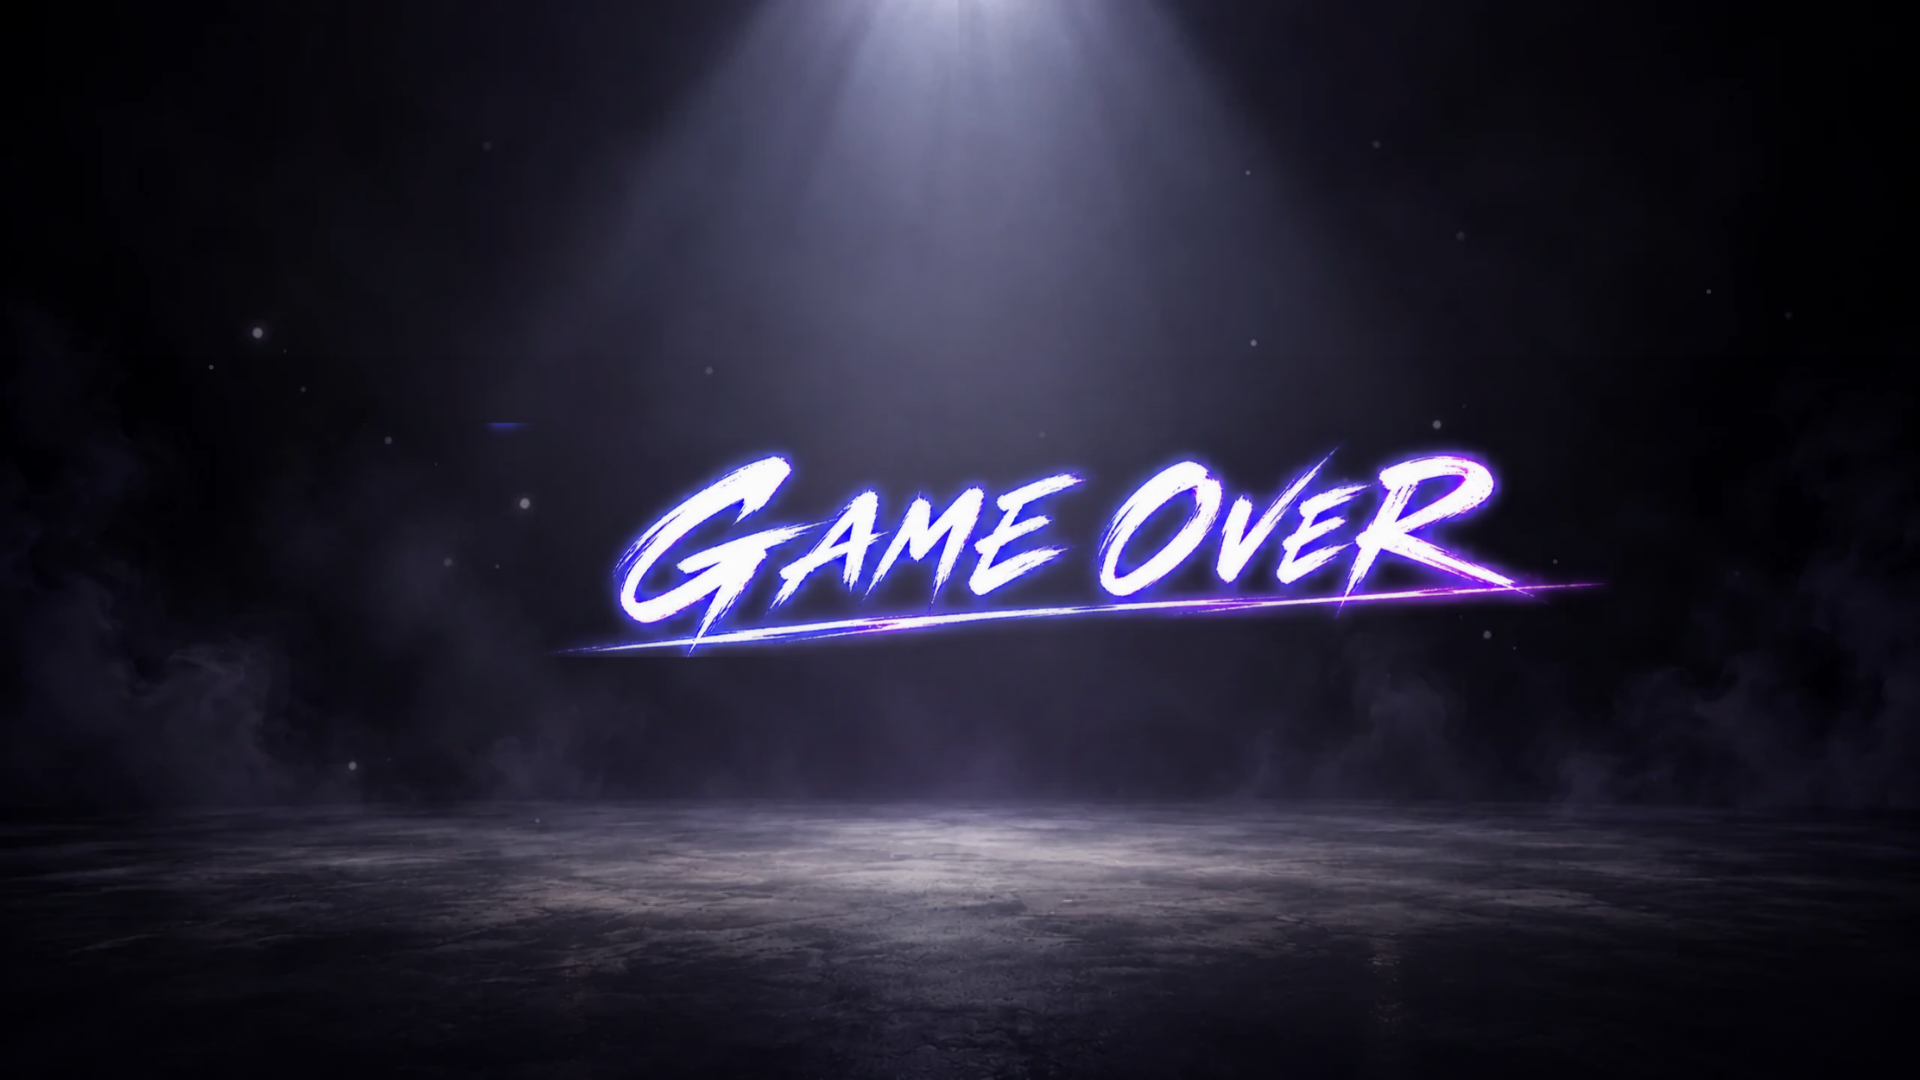
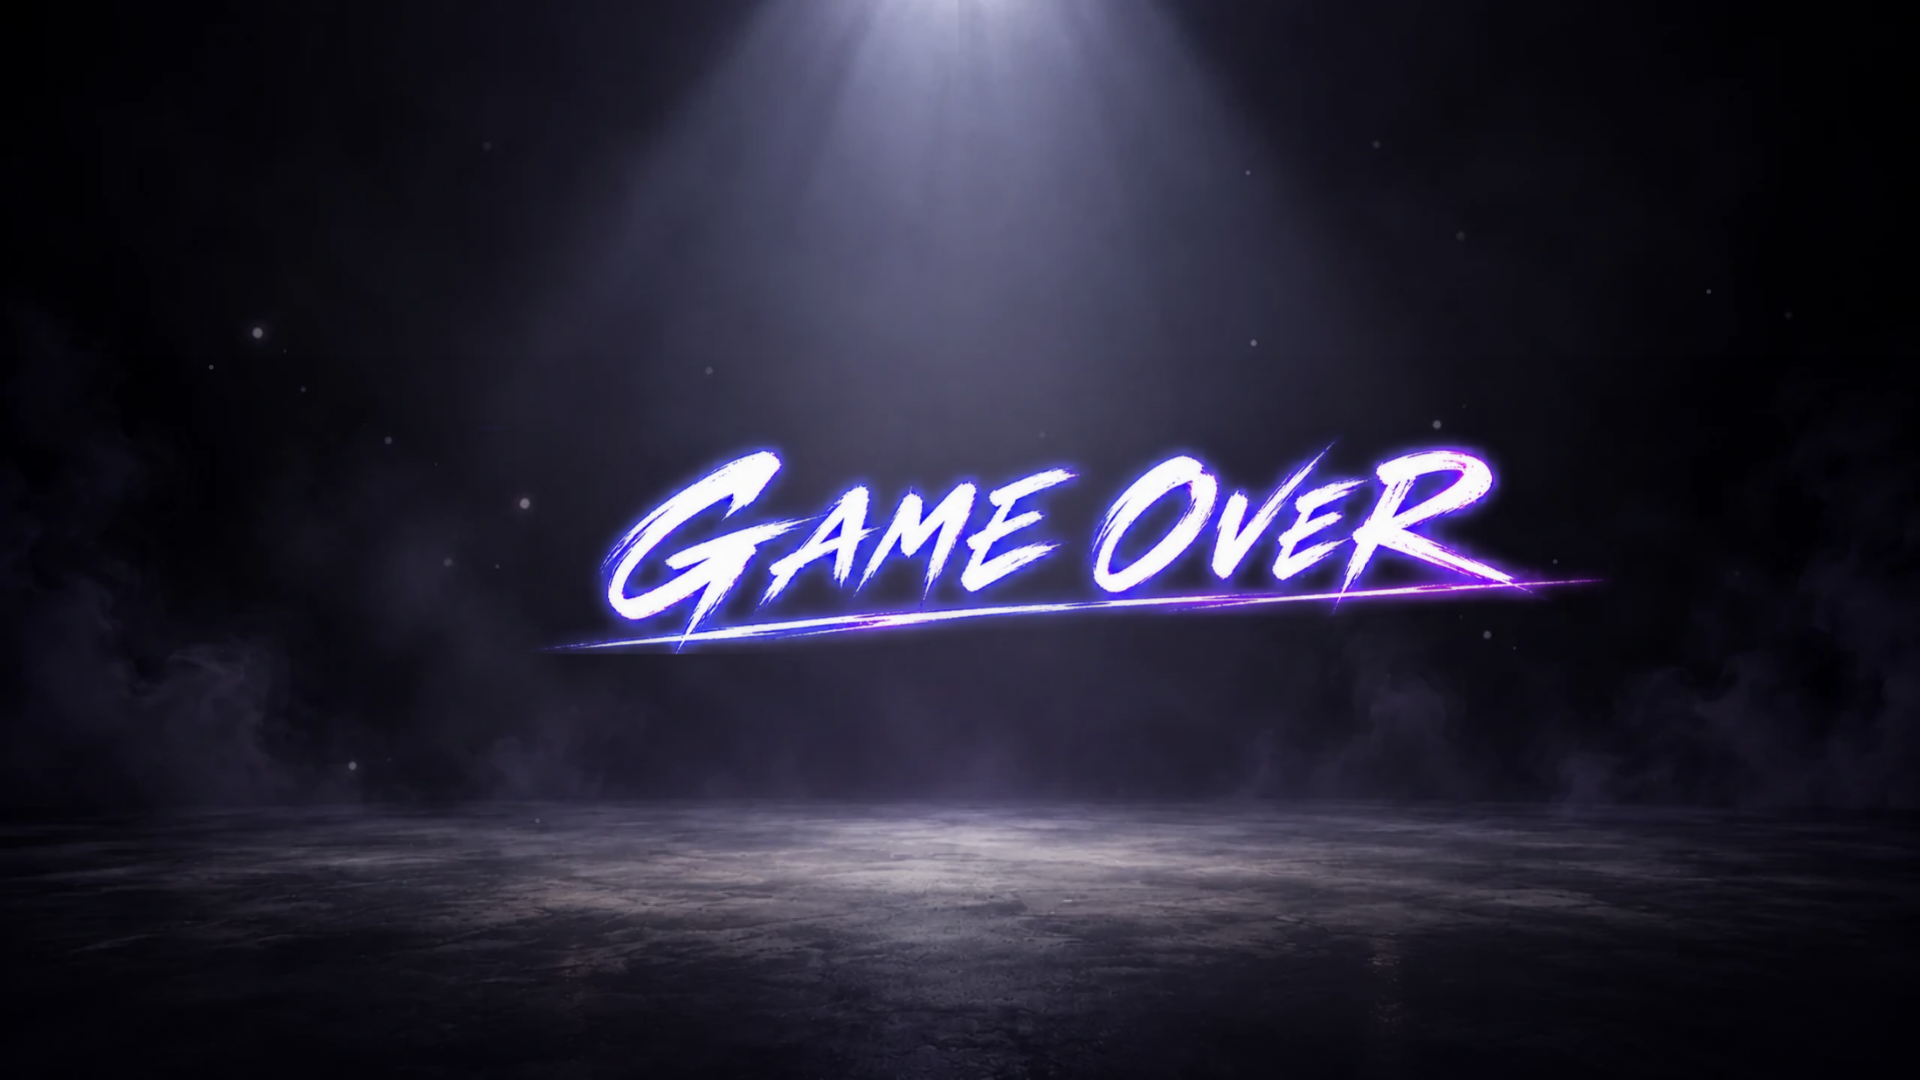
docs: record completed reference UI and verified tournament recovery

Changed region(s): [[0.2812, 0.3972, 0.8438, 0.6111]]

diff --git a/docs/owner_requests.md b/docs/owner_requests.md
@@ -4,18 +4,20 @@
 
 | ID | 状態 | オーナー要望 |
 |---|---|---|
-| CV35 | 🔧 | 人物背後の巨大な数字が迫る演出を本編に採用する。 |
+| CV35 | ✅ 8f0f291・441245a | 人物背後の巨大な数字が迫る演出を本編に採用する。 |
 | CV36 | ↪ CV41で更新 | 「コンティニュー横の数字はなくしていい」は最新の「これなら入れたい」に更新。数字を参考画像の右上円形HUDへ戻す。 |
-| CV37 | 🔧 | 見出し・人物・セリフ・下段2択を画面全体で整える。 |
-| CV38 | 🔧 | 安っぽく見える見出しを改め、筆文字風の「コンティニューする？」と白〜青紫の発光・斜めの装飾ラインを再現する。 |
+| CV37 | ✅ 8f0f291・441245a | 見出し・人物・セリフ・下段2択を画面全体で整える。 |
+| CV38 | ✅ 8f0f291・441245a | 安っぽく見える見出しを改め、筆文字風の「コンティニューする？」と白〜青紫の発光・斜めの装飾ラインを再現する。 |
 | CV39 | ↪ CV40で位置決定 | 見出しの別位置を見たいという依頼は、最新の参考画像を完成形とする指示によって参考位置に決定。 |
-| CV40 | 🔧 | 添付参考を可能な限り忠実に再現して全面刷新。暗いスモークステージ・スポット光・中央人物・装飾ライン・金／紫の鋭角ボタンを制作する。 |
-| CV41 | 🔧 | 見出し横の円形HUDと薄い巨大数字を動的にカウント。数字を画像へ焼き込まない。 |
-| CV42 | 🔧 | 大会に戻る／諦める・人物表情・台詞・20秒期限など既存の処理を保持。ボタン文字を動的に表示する。 |
-| CV43 | 🔧 | 光を伴うタイトル登場・ゆっくり動く煙・揺らぐ光・秒数に連動するHUD・残り5秒の緊迫感・選択時のネオン・自然なフェードを実装する。 |
-| CV44 | 🔧 | 1920×1080を基準に異なる16:9・スマホへ対応。顔を隠さず可読性と軽量さを保ち、CONTINUE以外へ影響させない。 |
-| CV45 | 🔧 | 実際の画面を起動して参考と比較し、スクリーンショットを見ながら修正。素材・検証・完成画面を保存して報告する。 |
-| CV46 | 🔧 | 同じ雰囲気を受け継ぐシンプルなGAME OVERを作り、タイトルへ自動で戻す。0・HUD・2択は表示しない。 |
+| CV40 | ✅ 8f0f291・441245a | 添付参考を可能な限り忠実に再現して全面刷新。暗いスモークステージ・スポット光・中央人物・装飾ライン・金／紫の鋭角ボタンを制作する。 |
+| CV41 | ✅ 8f0f291・441245a | 見出し横の円形HUDと薄い巨大数字を動的にカウント。数字を画像へ焼き込まない。 |
+| CV42 | ✅ 8f0f291・441245a | 大会に戻る／諦める・人物表情・台詞・20秒期限など既存の処理を保持。ボタン文字を動的に表示する。 |
+| CV43 | ✅ 8f0f291・441245a | 光を伴うタイトル登場・ゆっくり動く煙・揺らぐ光・秒数に連動するHUD・残り5秒の緊迫感・選択時のネオン・自然なフェードを実装する。 |
+| CV44 | ✅ 8f0f291・441245a | 1920×1080を基準に異なる16:9・スマホへ対応。顔を隠さず可読性と軽量さを保ち、CONTINUE以外へ影響させない。 |
+| CV45 | ✅ 8f0f291・441245a | 実際の画面を起動して参考と比較し、スクリーンショットを見ながら修正。素材・検証・完成画面を保存して報告する。 |
+| CV46 | ✅ 8f0f291・441245a | 同じ雰囲気を受け継ぐシンプルなGAME OVERを作り、タイトルへ自動で戻す。0・HUD・2択は表示しない。 |
+
+実装 `8f0f291`・`441245a`、[PR #284](https://github.com/haseatsu114514-dot/shisha-game/pull/284)。[生成原画・指示・完成スクリーンショット・改善記録](../asset_sources/ui/continue-v4-20261010/README.md)、[検証記録](../asset_sources/ui/continue-v4-20261010/neon-reference-20261011/test-results.json)。`continue_neon`・`continue_screen`・`continue_classic_count`・`continue_audio`・`continue_premium`・`burnt_gameover` PASS。全18分岐、全9台本のPC／スマホ、1080p、20秒の独立期限、直前の再挑戦、タブ停止・動き軽減・キーボード・セーブ保持、実大会の焦げ→再挑戦と時間切れ→タイトルを確認。素材欠け・ページエラー0。台詞lint ERROR 0／既存WARN 345、整形dry-run 0行、構文と差分空白も正常。画像目録の既存項目を全て保持。PRのブラウザ回帰CIも成功（run `38103910448`）。最新mainの統合で競合した要望台帳はCONTINUEと別担当の検証履歴を両方保持した。
 
 ## 2026-10-10 上に2択を置く実験版・GAME OVERの数字非表示
 
@@ -26,9 +28,9 @@
 | CV29 | ✅ 26faca8・d145c05 | 「ゲームオーバーが出た時は0とかは消して欲しい」。GAME OVER中はカウントと選択肢を非表示にし、ロゴだけを中央へ置く。全配置に適用する。 |
 | CV30 | ✅ d145c05 | 「このゲームの世界観にあったゲームオーバーの表示を生成して」。煙・濃紫・暖色の質感を使った透過ロゴを新規生成し、原画・生成指示・組み込みを保存する。 |
 | CV31 | ✅ d145c05（比較用） | 「比較の新バージョンはキャラの後ろに大きな薄らした数字がカウント」「どんどん拡大」。上部ボタン版から独立した背面カウント比較版を追加する。人物とセリフより薄く、残り20秒に沿って拡大。GAME OVERでは消す。 |
-| CV32 | ✅ d145c05（試用） | 「背景こんなの使ってみて欲しい」「違和感あれば戻す」。添付の暗いステージ2枚を参照し、スポット光・床・霞の試用背景を制作。プレビューで採用中の紫背景と切り替える。本編の背景採用は未決。 |
-| CV33 | 🔧 | 「王道パターンはこの構図」「比較も見たい」「微妙なら王道パターンに合わせて作って」。添付の中央見出し＋人物＋セリフ＋下段2択を王道として維持し、暗いステージでも上段の実験版と見比べられるようにする。 |
-| CV34 | 🔧 | 「王道パターンで後ろにかなり大きな数字で迫ってくるもみてみたい」。下段2択を保った独立した背面カウント版を追加。上段比較版より大きい数字が人物の背後で画面を越えるほど拡大する。通常の王道版も残す。 |
+| CV32 | ✅ d145c05（試用） | 「背景こんなの使ってみて欲しい」「違和感あれば戻す」。添付の暗いステージ2枚を参照し、スポット光・床・霞の試用背景を制作。プレビューで採用中の紫背景と切り替える。当時は試用、CV40で本編へ採用。 |
+| CV33 | ✅ 5810a82 | 「王道パターンはこの構図」「比較も見たい」「微妙なら王道パターンに合わせて作って」。添付の中央見出し＋人物＋セリフ＋下段2択を王道として維持し、暗いステージでも上段の実験版と見比べられるようにする。 |
+| CV34 | ✅ 5810a82 | 「王道パターンで後ろにかなり大きな数字で迫ってくるもみてみたい」。下段2択を保った独立した背面カウント版を追加。上段比較版より大きい数字が人物の背後で画面を越えるほど拡大する。通常の王道版も残す。 |
 
 実装 `26faca8`・`d145c05`、[原画・生成指示・PC／スマホ比較・15→5→1の拡大・検証記録](../asset_sources/ui/continue-v4-20261010/README.md)。`continue_screen`（通常18分岐、上段2版×9台本のPC／横持ち、20秒の独立した期限、拡大・タブ停止・動き軽減、終了時の数字非表示、プレビューのセーブ保持）、`continue_audio`・`continue_premium`・`burnt_gameover`（実画面の期限→タイトル、大会の焦げ→再挑戦、レッスン、前日リハーサル）がPASS。ページエラー・素材欠け0。台詞lint ERROR 0／既存WARN 345、整形dry-run 0行、JS構文・差分空白も正常。画像目録の既存項目を全て保持。上段の2版と暗いステージの本編採用は未決、紫背景・下段配置が本編の既定。
 

diff --git a/asset_sources/ui/continue-v4-20261010/README.md b/asset_sources/ui/continue-v4-20261010/README.md
@@ -12,6 +12,8 @@
 
 生成原画は正しい日本語見出し・GAME OVER・文字なしの2色フレームのみ。`build_continue_art.py`で行単位に機械的に切り出し、色や筆跡を変えずにPNG／WebPへ保存。暗いステージは以前の[生成原画](generated/backdrop-stage.png)を採用。煙・スポット光・粒・HUD・斜線・ボタンの選択発光はコードで動かす。1920×1080の構図を既存ステージへ縮尺して他画面を維持する。
 
+[関連6テスト・実大会への影響・CI・画面検品の記録](neon-reference-20261011/test-results.json)。全てPASS、素材欠け・ページエラー0。
+
 既定のプレビューは `continue-preview.html?layout=neon&background=stage`。以下の画像・紫背景・旧ロゴ・比較版は制作時点の記録として保持し、本編の既定を上書きしない。
 
 ## CV27〜34 王道配置・上部ボタン・背面カウント・暗いステージの比較版
